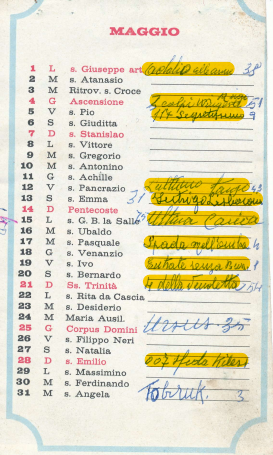
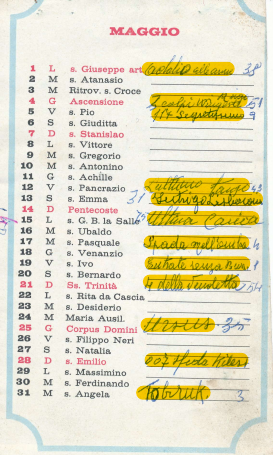
update entries calendario 1967

Changed region(s): [[0.4982, 0.8308, 0.7912, 0.8923], [0.4982, 0.6769, 0.7912, 0.7385]]

diff --git a/content/agende/1967-01-01-calendario-proiezioni-1967/index.md b/content/agende/1967-01-01-calendario-proiezioni-1967/index.md
@@ -14,169 +14,214 @@ tags:
 
 ### Lista film
 
-|Data di proiezione |Titolo                                               |
-|:------------------|:----------------------------------------------------|
-|1967-01-01         |[I due sanculotti](https://www.imdb.com/title/tt0060353/)|
+|Data di proiezione |Titolo                                                         |
+|:------------------|:--------------------------------------------------------------|
+|1967-01-01         |[I due sanculotti](https://www.imdb.com/title/tt0060353/)      |
+|1967-01-02         |[Nick Carter non perdona](https://www.imdb.com/title/tt0058290/)|
 |1967-01-03         |[6 donne per l'assassino](https://www.imdb.com/title/tt0058567/)|
-|1967-01-04         |[Desideri nel sole](https://www.imdb.com/title/tt0143088/)|
-|1967-01-06         |[Rita](https://www.imdb.com/title/tt0351661/)        |
-|1967-01-10         |[Gli onorevoli](https://www.imdb.com/title/tt0057384/)|
-|1967-01-12         |[L'idolo di Acapulco](https://www.imdb.com/title/tt0057083/)|
+|1967-01-04         |[Desideri nel sole](https://www.imdb.com/title/tt0143088/)     |
+|1967-01-05         |[L'agguato degli apaches](https://www.imdb.com/title/tt0042586/)|
+|1967-01-06         |[Rita, la figlia americana](https://www.imdb.com/title/tt0059654/)|
+|1967-01-07         |[Ringo il Texano](https://www.imdb.com/title/tt0061081/)       |
+|1967-01-09         |[La vendetta di Lady Morgan](https://www.imdb.com/title/tt0166390/)|
+|1967-01-10         |[Gli onorevoli](https://www.imdb.com/title/tt0057384/)         |
+|1967-01-11         |[Il coraggio e la sfida](https://www.imdb.com/title/tt0054740/)|
+|1967-01-12         |[L'idolo di Acapulco](https://www.imdb.com/title/tt0057083/)   |
 |1967-01-13         |[Sciarada per quattro spie](https://www.imdb.com/title/tt0060140/)|
 |1967-01-15         |[Da Istanbul ordine di uccidere](https://www.imdb.com/title/tt0204235/)|
-|1967-01-18         |[Nude per amare](https://www.imdb.com/title/tt0057116/)|
-|1967-01-20         |[Sfida selvaggia](https://www.imdb.com/title/tt0057257/)|
-|1967-01-21         |[Il grande cielo](https://www.imdb.com/title/tt0044419/)|
+|1967-01-16         |[Il diavolo in corpo](https://www.imdb.com/title/tt0038476/)   |
+|1967-01-17         |[Le vendicatrici di Zorro](https://www.imdb.com/title/tt0280177/)|
+|1967-01-18         |[Nude per amare](https://www.imdb.com/title/tt0057116/)        |
+|1967-01-19         |[Il cacciatore di indiani](https://www.imdb.com/title/tt0048204/)|
+|1967-01-20         |[Sfida selvaggia](https://www.imdb.com/title/tt0057257/)       |
+|1967-01-21         |[Il grande cielo](https://www.imdb.com/title/tt0044419/)       |
 |1967-01-22         |[30 Winchester per El Diablo](https://www.imdb.com/title/tt0058862/)|
 |1967-01-23         |[E il vento disperse la nebbia](https://www.imdb.com/title/tt0055738/)|
 |1967-01-24         |[7 donne d'oro contro due 07](https://www.imdb.com/title/tt0196090/)|
 |1967-01-25         |[Agente speciale Eva: missione Sex](https://www.imdb.com/title/tt0057644/)|
+|1967-01-26         |[Appuntamento al Km. 424](https://www.imdb.com/title/tt0047982/)|
+|1967-01-27         |[La regina del Rio delle Amazzoni](https://www.imdb.com/title/tt0058285/)|
+|1967-01-28         |[Il vangelo secondo Matteo](https://www.imdb.com/title/tt0058715/)|
+|1967-01-29         |[Lassù qualcuno mi ama](https://www.imdb.com/title/tt0049778/) |
 |1967-01-30         |[Il ribelle dell'Anatolia (America America)](https://www.imdb.com/title/tt0056825/)|
-|1967-01-31         |[Capricci borghesi (Daniela)](https://www.imdb.com/title/tt0055636/)|
-|1967-02-02         |[Le gladiatrici](https://www.imdb.com/title/tt0054382/)|
+|1967-01-31         |[Capricci borghesi (Daniela by Night)](https://www.imdb.com/title/tt0055636/)|
+|1967-02-02         |[Le gladiatrici](https://www.imdb.com/title/tt0054382/)        |
 |1967-02-03         |[I cacciatori del lago d'argento](https://www.imdb.com/title/tt0059796/)|
 |1967-02-05         |[Le pistole non discutono](https://www.imdb.com/title/tt0058475/)|
-|1967-02-08         |[Il poliziotto 202](https://www.imdb.com/title/tt0057834/)|
-|1967-02-12         |[Intrigo a Stoccolma](https://www.imdb.com/title/tt0057426/)|
-|1967-02-13         |[Canzoni, bulli e pupe](https://www.imdb.com/title/tt0150035/)|
-|1967-02-15         |[I re del sole](https://www.imdb.com/title/tt0057225/)|
-|1967-02-16         |[I 7 magnifici Jerry](https://www.imdb.com/title/tt0059166/)|
-|1967-02-17         |[La smania addosso](https://www.imdb.com/title/tt0057511/)|
-|1967-02-19         |[Dio, come ti amo!](https://www.imdb.com/title/tt0061220/)|
-|1967-02-20         |[La spiata](https://www.imdb.com/title/tt0054838/)   |
-|1967-02-21         |[Il ribelle di Algeri](https://www.imdb.com/title/tt0058232/)|
-|1967-02-23         |[I due gladiatori](https://www.imdb.com/title/tt0058043/)|
+|1967-02-06         |[Supersexy '64](https://www.imdb.com/title/tt0209391/)         |
+|1967-02-07         |[Mezzogiorno di... fifa](https://www.imdb.com/title/tt0049593/)|
+|1967-02-08         |[Il poliziotto 202](https://www.imdb.com/title/tt0057834/)     |
+|1967-02-12         |[Intrigo a Stoccolma](https://www.imdb.com/title/tt0057426/)   |
+|1967-02-13         |[Canzoni, bulli e pupe](https://www.imdb.com/title/tt0150035/) |
+|1967-02-15         |[I re del sole](https://www.imdb.com/title/tt0057225/)         |
+|1967-02-16         |[I 7 magnifici Jerry](https://www.imdb.com/title/tt0059166/)   |
+|1967-02-17         |[La smania addosso](https://www.imdb.com/title/tt0057511/)     |
+|1967-02-19         |[Dio, come ti amo!](https://www.imdb.com/title/tt0061220/)     |
+|1967-02-20         |[La spiata](https://www.imdb.com/title/tt0054838/)             |
+|1967-02-21         |[Il ribelle di Algeri](https://www.imdb.com/title/tt0058232/)  |
+|1967-02-23         |[I due gladiatori](https://www.imdb.com/title/tt0058043/)      |
 |1967-02-24         |[Spogliarello per una vedova](https://www.imdb.com/title/tt0060863/)|
 |1967-02-26         |[L'uomo dalla pistola d'oro](https://www.imdb.com/title/tt0060320/)|
-|1967-02-27         |[Nel bene e nel male](https://www.imdb.com/title/tt0057656/)|
-|1967-03-01         |[Beau Geste](https://www.imdb.com/title/tt0060155/)  |
-|1967-03-02         |[L'oltraggio](https://www.imdb.com/title/tt0058437/) |
-|1967-03-03         |[La vendetta di Ercole](https://www.imdb.com/title/tt0054437/)|
-|1967-03-04         |[La taglia](https://www.imdb.com/title/tt0059651/)   |
-|1967-03-05         |[I gemelli del Texas](https://www.imdb.com/title/tt0059218/)|
-|1967-03-07         |[La calda pelle](https://www.imdb.com/title/tt0059089/)|
+|1967-02-27         |[Nel bene e nel male](https://www.imdb.com/title/tt0057656/)   |
+|1967-03-01         |[Beau Geste](https://www.imdb.com/title/tt0060155/)            |
+|1967-03-02         |[L'oltraggio](https://www.imdb.com/title/tt0058437/)           |
+|1967-03-03         |[La vendetta di Ercole](https://www.imdb.com/title/tt0054437/) |
+|1967-03-04         |[La taglia](https://www.imdb.com/title/tt0059651/)             |
+|1967-03-05         |[I gemelli del Texas](https://www.imdb.com/title/tt0059218/)   |
+|1967-03-06         |[Nel bene e nel male](https://www.imdb.com/title/tt0057656/)   |
+|1967-03-07         |[La calda pelle](https://www.imdb.com/title/tt0059089/)        |
+|1967-03-08         |[Pazzo per le donne](https://www.imdb.com/title/tt0059224/)    |
 |1967-03-09         |[Marie Chantal contro il dr. Kha](https://www.imdb.com/title/tt0059432/)|
 |1967-03-10         |[Il corsaro della mezza luna](https://www.imdb.com/title/tt0050266/)|
 |1967-03-11         |[Il tiranno di Siracusa](https://www.imdb.com/title/tt0055885/)|
-|1967-03-13         |[La pistola sepolta](https://www.imdb.com/title/tt0049201/)|
-|1967-03-14         |[La città nera](https://www.imdb.com/title/tt0042379/)|
-|1967-03-16         |[Gioco mortale](https://www.imdb.com/title/tt0060626/)|
-|1967-03-17         |[La spada di Alì Babà](https://www.imdb.com/title/tt0059772/)|
+|1967-03-13         |[La pistola sepolta](https://www.imdb.com/title/tt0049201/)    |
+|1967-03-14         |[La città nera](https://www.imdb.com/title/tt0042379/)         |
+|1967-03-16         |[Gioco mortale](https://www.imdb.com/title/tt0060626/)         |
+|1967-03-17         |[La spada di Alì Babà](https://www.imdb.com/title/tt0059772/)  |
 |1967-03-19         |[L'avventuriero della Tortuga](https://www.imdb.com/title/tt0058929/)|
-|1967-03-20         |[Sfida implacabile](https://www.imdb.com/title/tt0239806/)|
+|1967-03-20         |[Sfida implacabile](https://www.imdb.com/title/tt0239806/)     |
 |1967-03-21         |[Assassinio di una ragazza squillo](https://www.imdb.com/title/tt0206792/)|
-|1967-03-22         |[Il sorpasso](https://www.imdb.com/title/tt0056512/) |
-|1967-03-26         |[Mi vedrai tornare](https://www.imdb.com/title/tt0060692/)|
-|1967-03-31         |[Gli allegri eroi](https://www.imdb.com/title/tt0026126/)|
-|1967-04-01         |[La montagna di luce](https://www.imdb.com/title/tt0128358/)|
-|1967-04-03         |[La ballata del boia](https://www.imdb.com/title/tt0057643/)|
-|1967-04-05         |[Operazione dollari](https://www.imdb.com/title/tt0141083/)|
-|1967-04-08         |[Ringo del Nebraska](https://www.imdb.com/title/tt0060901/)|
+|1967-03-22         |[Il sorpasso](https://www.imdb.com/title/tt0056512/)           |
+|1967-03-26         |[Mi vedrai tornare](https://www.imdb.com/title/tt0060692/)     |
+|1967-03-27         |[Morgan matto da legare](https://www.imdb.com/title/tt0060714/)|
+|1967-03-31         |[Gli allegri eroi](https://www.imdb.com/title/tt0026126/)      |
+|1967-04-01         |[La montagna di luce](https://www.imdb.com/title/tt0128358/)   |
+|1967-04-03         |[La ballata del boia](https://www.imdb.com/title/tt0057643/)   |
+|1967-04-05         |[New York Press, operazione dollari](https://www.imdb.com/title/tt0059072/)|
+|1967-04-08         |[Ringo del Nebraska](https://www.imdb.com/title/tt0060901/)    |
 |1967-04-10         |[Il limite della vergogna](https://www.imdb.com/title/tt0056656/)|
-|1967-04-14         |[I bucanieri](https://www.imdb.com/title/tt0051436/) |
-|1967-04-16         |[Oss 117 furia a Bahia](https://www.imdb.com/title/tt0059206/)|
-|1967-04-17         |[Gli amori di Angelica](https://www.imdb.com/title/tt0063326/)|
+|1967-04-14         |[I bucanieri](https://www.imdb.com/title/tt0051436/)           |
+|1967-04-16         |[Oss 117 furia a Bahia](https://www.imdb.com/title/tt0059206/) |
+|1967-04-17         |[Gli amori di Angelica](https://www.imdb.com/title/tt0063326/) |
 |1967-04-19         |[Chi giace nella mia bara?](https://www.imdb.com/title/tt0057997/)|
-|1967-04-20         |[Stella di fuoco](https://www.imdb.com/title/tt0053825/)|
-|1967-04-24         |[Argos alla riscossa](https://www.imdb.com/title/tt0055408/)|
-|1967-04-27         |[La sfida dei giganti](https://www.imdb.com/title/tt0275668/)|
+|1967-04-20         |[Stella di fuoco](https://www.imdb.com/title/tt0053825/)       |
+|1967-04-21         |[Massacro a Phantom Hill](https://www.imdb.com/title/tt0060537/)|
+|1967-04-24         |[Argos alla riscossa](https://www.imdb.com/title/tt0055408/)   |
+|1967-04-27         |[La sfida dei giganti](https://www.imdb.com/title/tt0275668/)  |
 |1967-04-28         |[Tutte le ragazze lo sanno](https://www.imdb.com/title/tt0052583/)|
-|1967-05-01         |[Addio alle armi](https://www.imdb.com/title/tt0050379/)|
+|1967-04-30         |[Secret service](https://www.imdb.com/title/tt0059387/)        |
+|1967-05-01         |[Addio alle armi](https://www.imdb.com/title/tt0050379/)       |
 |1967-05-04         |[3 colpi di Winchester per Ringo](https://www.imdb.com/title/tt0058861/)|
-|1967-05-05         |[OSS 117 segretissimo](https://www.imdb.com/title/tt0141673/)|
-|1967-05-12         |[L'ultimo tango](https://www.imdb.com/title/tt0054080/)|
+|1967-05-05         |[OSS 117 segretissimo](https://www.imdb.com/title/tt0141673/)  |
+|1967-05-12         |[L'ultimo tango](https://www.imdb.com/title/tt0054080/)        |
 |1967-05-13         |[Da 077: intrigo a Lisbona](https://www.imdb.com/title/tt0059449/)|
-|1967-05-15         |[L'ultima caccia](https://www.imdb.com/title/tt0049432/)|
-|1967-05-17         |[Una spada nell'ombra](https://www.imdb.com/title/tt0208469/)|
-|1967-05-19         |[Entrate senza bussare](https://www.imdb.com/title/tt0055621/)|
-|1967-05-21         |[I 4 volti della vendetta](https://www.imdb.com/title/tt0058632/)|
+|1967-05-15         |[L'ultima carica](https://www.imdb.com/title/tt0211712/)       |
+|1967-05-17         |[Una spada nell'ombra](https://www.imdb.com/title/tt0208469/)  |
+|1967-05-19         |[Entrate senza bussare](https://www.imdb.com/title/tt0055621/) |
+|1967-05-21         |[4 dollari di vendetta](https://www.imdb.com/title/tt0059624/) |
+|1967-05-24         |[Ursus e la ragazza tartara](https://www.imdb.com/title/tt0056641/)|
 |1967-05-28         |[A 077, sfida ai killers](https://www.imdb.com/title/tt0060051/)|
+|1967-05-31         |[Tobruk](https://www.imdb.com/title/tt0062377/)                |
 |1967-06-02         |[Tharus figlio di Attila](https://www.imdb.com/title/tt0211033/)|
 |1967-06-04         |[Kindar, l'invulnerabile](https://www.imdb.com/title/tt0060590/)|
-|1967-06-05         |[Destino in agguato](https://www.imdb.com/title/tt0058091/)|
-|1967-06-07         |[Rio diablos](https://www.imdb.com/title/tt0058941/) |
-|1967-06-11         |[Marco Polo](https://www.imdb.com/title/tt0055141/)  |
+|1967-06-05         |[Destino in agguato](https://www.imdb.com/title/tt0058091/)    |
+|1967-06-07         |[Rio diablos](https://www.imdb.com/title/tt0058941/)           |
+|1967-06-11         |[Le meravigliose avventure di Marco Polo (Lo scacchiere di Dio)](https://www.imdb.com/title/tt0059429/)|
+|1967-06-15         |[L'ombra di Zorro](https://www.imdb.com/title/tt0056893/)      |
 |1967-06-18         |[Agguato sul grande fiume](https://www.imdb.com/title/tt0057064/)|
 |1967-06-19         |[Una spada per l'impero](https://www.imdb.com/title/tt0208470/)|
 |1967-06-22         |[Appuntamento con la vita](https://www.imdb.com/title/tt0054259/)|
 |1967-06-25         |[Superseven chiama Cairo](https://www.imdb.com/title/tt0061045/)|
+|1967-06-29         |[La Matadora (Fiesta)](https://www.imdb.com/title/tt0039377/)  |
 |1967-07-02         |[Ciclone sulla Giamaica](https://www.imdb.com/title/tt0059269/)|
 |1967-07-07         |[Lo sparviero dei Caraibi](https://www.imdb.com/title/tt0058185/)|
-|1967-07-09         |[Ercole alla conquista di Atlantide](https://www.imdb.com/title/tt0054851/)|
-|1967-07-10         |[Tra due fuochi](https://www.imdb.com/title/tt0058323/)|
-|1967-07-17         |[Pelle d'oca](https://www.imdb.com/title/tt0056921/) |
+|1967-07-09         |[Il conquistatore di Atlantide](https://www.imdb.com/title/tt0059055/)|
+|1967-07-10         |[Tra due fuochi](https://www.imdb.com/title/tt0058323/)        |
+|1967-07-14         |[Cerimonia infernale](https://www.imdb.com/title/tt0056918/)   |
+|1967-07-16         |[Gli eroi di Fort Worth](https://www.imdb.com/title/tt0059778/)|
+|1967-07-17         |[Pelle d'oca](https://www.imdb.com/title/tt0056921/)           |
 |1967-07-22         |[Johnny West il mancino](https://www.imdb.com/title/tt0059337/)|
-|1967-07-28         |[L'ultima freccia](https://www.imdb.com/title/tt0045041/)|
-|1967-08-02         |[Sfida a Glory City](https://www.imdb.com/title/tt0059296/)|
+|1967-07-27         |[Gli eroi di Antropoid](https://www.imdb.com/title/tt0174476/) |
+|1967-07-28         |[L'ultima freccia](https://www.imdb.com/title/tt0045041/)      |
+|1967-07-30         |[Maciste il vendicatore dei Maya](https://www.imdb.com/title/tt0215319/)|
+|1967-08-02         |[Sfida a Glory City](https://www.imdb.com/title/tt0059296/)    |
 |1967-08-05         |[La rivolta dei pretoriani](https://www.imdb.com/title/tt0058526/)|
-|1967-08-09         |[Orgoglio e passione](https://www.imdb.com/title/tt0050858/)|
-|1967-08-10         |[Le sedicenni](https://www.imdb.com/title/tt0203866/)|
-|1967-08-11         |[La legge della Mafia](https://www.imdb.com/title/tt0221336/)|
+|1967-08-09         |[Orgoglio e passione](https://www.imdb.com/title/tt0050858/)   |
+|1967-08-10         |[Le sedicenni](https://www.imdb.com/title/tt0203866/)          |
+|1967-08-11         |[La legge della Mafia](https://www.imdb.com/title/tt0221336/)  |
+|1967-08-13         |[Il mercenario della morte](https://www.imdb.com/title/tt0049287/)|
 |1967-08-15         |[FBI - operazione vipera gialla](https://www.imdb.com/title/tt0058227/)|
 |1967-08-16         |[Le amanti del dr. Jekyll](https://www.imdb.com/title/tt0058563/)|
-|1967-08-17         |[Le 7 cinesi d'oro](https://www.imdb.com/title/tt0164161/)|
-|1967-08-19         |[Ercole l'invincibile](https://www.imdb.com/title/tt0271489/)|
+|1967-08-17         |[Le 7 cinesi d'oro](https://www.imdb.com/title/tt0164161/)     |
+|1967-08-19         |[Ercole l'invincibile](https://www.imdb.com/title/tt0271489/)  |
 |1967-08-22         |[L'avventuriero di re Artù](https://www.imdb.com/title/tt0057500/)|
 |1967-08-23         |[Un priore per Scotland Yard](https://www.imdb.com/title/tt0057974/)|
-|1967-08-25         |[Venere selvaggia](https://www.imdb.com/title/tt0054305/)|
-|1967-08-27         |[L'ultimo gladiatore](https://www.imdb.com/title/tt0058345/)|
+|1967-08-25         |[Venere selvaggia](https://www.imdb.com/title/tt0054305/)      |
+|1967-08-27         |[L'ultimo gladiatore](https://www.imdb.com/title/tt0058345/)   |
+|1967-08-29         |[La vendetta dei barbari](https://www.imdb.com/title/tt0054436/)|
+|1967-08-30         |[L'inferno di Yuma](https://www.imdb.com/title/tt0045684/)     |
+|1967-08-31         |[Il segreto degli Incas](https://www.imdb.com/title/tt0047464/)|
 |1967-09-01         |[Una pistola per un vile](https://www.imdb.com/title/tt0049285/)|
-|1967-09-03         |[L'eroe di Babilonia](https://www.imdb.com/title/tt0057038/)|
-|1967-09-05         |[Ulisse contro Ercole](https://www.imdb.com/title/tt0055564/)|
-|1967-09-07         |[Le quattro chiavi](https://www.imdb.com/title/tt0059876/)|
+|1967-09-03         |[L'eroe di Babilonia](https://www.imdb.com/title/tt0057038/)   |
+|1967-09-05         |[Ulisse contro Ercole](https://www.imdb.com/title/tt0055564/)  |
+|1967-09-07         |[Le quattro chiavi](https://www.imdb.com/title/tt0059876/)     |
 |1967-09-10         |[Il corsaro dell'isola verde](https://www.imdb.com/title/tt0044517/)|
-|1967-09-16         |[L'armata Brancaleone](https://www.imdb.com/title/tt0060125/)|
+|1967-09-12         |[Messalina Venere imperatrice](https://www.imdb.com/title/tt0055169/)|
+|1967-09-13         |[Agente H.A.R.M.](https://www.imdb.com/title/tt0060074/)       |
+|1967-09-14         |[U-112 assalto al Queen Mary](https://www.imdb.com/title/tt0060135/)|
+|1967-09-16         |[L'armata Brancaleone](https://www.imdb.com/title/tt0060125/)  |
 |1967-09-19         |[Le colt cantarono la morte e fu... tempo di massacro](https://www.imdb.com/title/tt0061074/)|
 |1967-09-20         |[Sandok, il Maciste della giungla](https://www.imdb.com/title/tt0128447/)|
 |1967-09-21         |[Ringo e Gringo contro tutti](https://www.imdb.com/title/tt0061799/)|
-|1967-09-22         |[La città senza legge](https://www.imdb.com/title/tt0059824/)|
-|1967-09-24         |[I due figli di Ringo](https://www.imdb.com/title/tt0061598/)|
+|1967-09-22         |[La città senza legge](https://www.imdb.com/title/tt0059824/)  |
+|1967-09-24         |[I due figli di Ringo](https://www.imdb.com/title/tt0061598/)  |
 |1967-09-26         |[2 samurai per 100 geishe](https://www.imdb.com/title/tt0055938/)|
 |1967-09-27         |[Il ritorno di Jess il bandito](https://www.imdb.com/title/tt0039511/)|
-|1967-09-28         |[Spia spione](https://www.imdb.com/title/tt0061889/) |
-|1967-09-29         |[Gli impetuosi](https://www.imdb.com/title/tt0058296/)|
-|1967-09-30         |[I 5 della vendetta](https://www.imdb.com/title/tt0060238/)|
+|1967-09-28         |[Spia spione](https://www.imdb.com/title/tt0061889/)           |
+|1967-09-29         |[Gli impetuosi](https://www.imdb.com/title/tt0058296/)         |
+|1967-09-30         |[I 5 della vendetta](https://www.imdb.com/title/tt0060238/)    |
 |1967-10-03         |[Crisantemi per un delitto](https://www.imdb.com/title/tt0058123/)|
+|1967-10-06         |[Il principe coraggioso](https://www.imdb.com/title/tt0047365/)|
 |1967-10-07         |[Il vendicatore del Texas](https://www.imdb.com/title/tt0056914/)|
 |1967-10-10         |[Un brivido sulla pelle](https://www.imdb.com/title/tt0060190/)|
 |1967-10-11         |[Berlino l'inferno dei vivi](https://www.imdb.com/title/tt0050081/)|
 |1967-10-12         |[L'occhio caldo del cielo](https://www.imdb.com/title/tt0055073/)|
-|1967-10-13         |[Il pianeta errante](https://www.imdb.com/title/tt0059588/)|
-|1967-10-17         |[La cieca di Sorrento](https://www.imdb.com/title/tt0197363/)|
-|1967-10-18         |[Una regina per Cesare](https://www.imdb.com/title/tt0056401/)|
-|1967-10-19         |[Il terzo giorno](https://www.imdb.com/title/tt0059795/)|
+|1967-10-13         |[Il pianeta errante](https://www.imdb.com/title/tt0059588/)    |
+|1967-10-15         |[Il ragazzo che sapeva amare](https://www.imdb.com/title/tt0197806/)|
+|1967-10-17         |[La cieca di Sorrento](https://www.imdb.com/title/tt0197363/)  |
+|1967-10-18         |[Una regina per Cesare](https://www.imdb.com/title/tt0056401/) |
+|1967-10-19         |[Il terzo giorno](https://www.imdb.com/title/tt0059795/)       |
 |1967-10-20         |[L'uomo che uccise il suo carnefice](https://www.imdb.com/title/tt0061525/)|
 |1967-10-22         |[10, 000 dollari per un massacro](https://www.imdb.com/title/tt0061313/)|
-|1967-10-25         |[Una storia di notte](https://www.imdb.com/title/tt0058617/)|
+|1967-10-24         |[La bella avventura](https://www.imdb.com/title/tt0038241/)    |
+|1967-10-25         |[Una storia di notte](https://www.imdb.com/title/tt0058617/)   |
 |1967-10-26         |[Agente 4K2 chiede aiuto](https://www.imdb.com/title/tt0062473/)|
 |1967-10-27         |[Il ritorno del pistolero](https://www.imdb.com/title/tt0062194/)|
 |1967-10-29         |[Ultima notte a Warlock](https://www.imdb.com/title/tt0053434/)|
-|1967-10-31         |[Lo sceicco rosso](https://www.imdb.com/title/tt0056451/)|
-|1967-11-01         |[La conquista del West](https://www.imdb.com/title/tt0056085/)|
+|1967-10-31         |[Lo sceicco rosso](https://www.imdb.com/title/tt0056451/)      |
+|1967-11-01         |[La conquista del West](https://www.imdb.com/title/tt0056085/) |
+|1967-11-02         |[Sakiss - Vendetta indiana](https://www.imdb.com/title/tt0048773/)|
+|1967-11-05         |[Delitto a Posillipo - Londra chiama Napoli](https://www.imdb.com/title/tt0163600/)|
 |1967-11-07         |[La sfida dei fuorilegge](https://www.imdb.com/title/tt0050496/)|
-|1967-11-08         |[La preda nuda](https://www.imdb.com/title/tt0060736/)|
-|1967-11-09         |[Colpo grosso](https://www.imdb.com/title/tt0054135/)|
+|1967-11-08         |[La preda nuda](https://www.imdb.com/title/tt0060736/)         |
+|1967-11-09         |[Colpo grosso](https://www.imdb.com/title/tt0054135/)          |
+|1967-11-10         |[A ciascuno il suo](https://www.imdb.com/title/tt0061320/)     |
 |1967-11-12         |[Un gangster venuto da Brooklyn](https://www.imdb.com/title/tt0063040/)|
+|1967-11-14         |[Delitto in prima pagina](https://www.imdb.com/title/tt0043088/)|
 |1967-11-15         |[Assalto al tesoro di stato](https://www.imdb.com/title/tt0185891/)|
-|1967-11-16         |[La calda preda](https://www.imdb.com/title/tt0060271/)|
-|1967-11-17         |[La spia sulla città](https://www.imdb.com/title/tt0056925/)|
-|1967-11-19         |[Una bara per Ringo](https://www.imdb.com/title/tt0061175/)|
-|1967-11-21         |[Il grande agguato](https://www.imdb.com/title/tt0041210/)|
-|1967-11-22         |[Delitto d'amore](https://www.imdb.com/title/tt0058868/)|
-|1967-11-24         |[La città rubata](https://www.imdb.com/title/tt0036065/)|
-|1967-11-25         |[Le notti della violenza](https://www.imdb.com/title/tt0060762/)|
-|1967-11-30         |[L'imboscata selvaggia](https://www.imdb.com/title/tt0049311/)|
-|1967-12-03         |[Far West](https://www.imdb.com/title/tt0058019/)    |
+|1967-11-16         |[La calda preda](https://www.imdb.com/title/tt0060271/)        |
+|1967-11-17         |[La spia sulla città](https://www.imdb.com/title/tt0056925/)   |
+|1967-11-19         |[Una bara per Ringo](https://www.imdb.com/title/tt0061175/)    |
+|1967-11-21         |[Il grande agguato](https://www.imdb.com/title/tt0041210/)     |
+|1967-11-22         |[Delitto d'amore](https://www.imdb.com/title/tt0058868/)       |
+|1967-11-23         |[Il gobbo di Londra](https://www.imdb.com/title/tt0060192/)    |
+|1967-11-24         |[La città rubata](https://www.imdb.com/title/tt0036065/)       |
+|1967-11-28         |[Le notti della violenza](https://www.imdb.com/title/tt0060762/)|
+|1967-11-30         |[L'imboscata selvaggia](https://www.imdb.com/title/tt0049311/) |
+|1967-12-03         |[Far West](https://www.imdb.com/title/tt0058019/)              |
 |1967-12-05         |[Il sentiero degli Apaches](https://www.imdb.com/title/tt0042299/)|
-|1967-12-08         |[Zorro il ribelle](https://www.imdb.com/title/tt0061218/)|
+|1967-12-08         |[Zorro il ribelle](https://www.imdb.com/title/tt0061218/)      |
 |1967-12-10         |[Un dollaro tra i denti](https://www.imdb.com/title/tt0060325/)|
-|1967-12-13         |[Svegliati e uccidi](https://www.imdb.com/title/tt0061049/)|
+|1967-12-13         |[Svegliati e uccidi](https://www.imdb.com/title/tt0061049/)    |
 |1967-12-15         |[Sette strade al tramonto](https://www.imdb.com/title/tt0054296/)|
 |1967-12-16         |[Nessuno mi può giudicare](https://www.imdb.com/title/tt0060746/)|
-|1967-12-19         |[Giochi di notte](https://www.imdb.com/title/tt0060740/)|
+|1967-12-19         |[Giochi di notte](https://www.imdb.com/title/tt0060740/)       |
 |1967-12-20         |[Gli amanti devono imparare](https://www.imdb.com/title/tt0056424/)|
-|1967-12-22         |[Duello mortale](https://www.imdb.com/title/tt0033873/)|
+|1967-12-22         |[Duello infernale](https://www.imdb.com/title/tt0041917/)      |
+|1967-12-23         |[Perdono](https://www.imdb.com/title/tt0060823/)               |
+|1967-12-25         |[Starblack](https://www.imdb.com/title/tt0222396/)             |
+|1967-12-26         |[Berlino appuntamento per le spie (Operazione Polifemo)](https://www.imdb.com/title/tt0061019/)|
 |1967-12-27         |[Spara forte, più forte... non capisco!](https://www.imdb.com/title/tt0061008/)|
-|1967-12-28         |[Spiaggia libera](https://www.imdb.com/title/tt0208476/)|
-|1967-12-29         |[Sette ore di fuoco](https://www.imdb.com/title/tt0058575/)|
-|1967-12-31         |[Voltati... ti uccido!](https://www.imdb.com/title/tt0063813/)|
+|1967-12-28         |[Spiaggia libera](https://www.imdb.com/title/tt0208476/)       |
+|1967-12-29         |[Sette ore di fuoco](https://www.imdb.com/title/tt0058575/)    |
+|1967-12-31         |[Voltati... ti uccido!](https://www.imdb.com/title/tt0063813/) |
